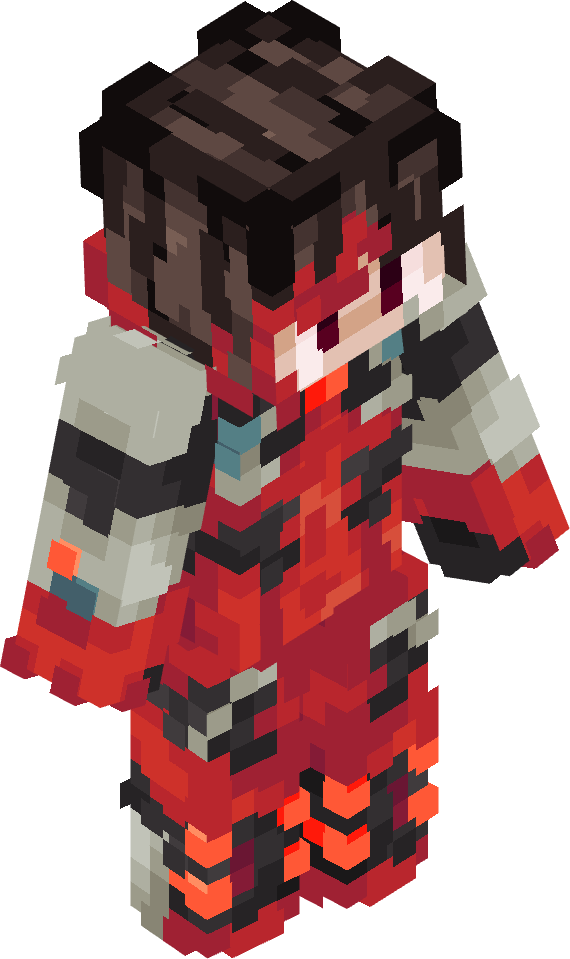
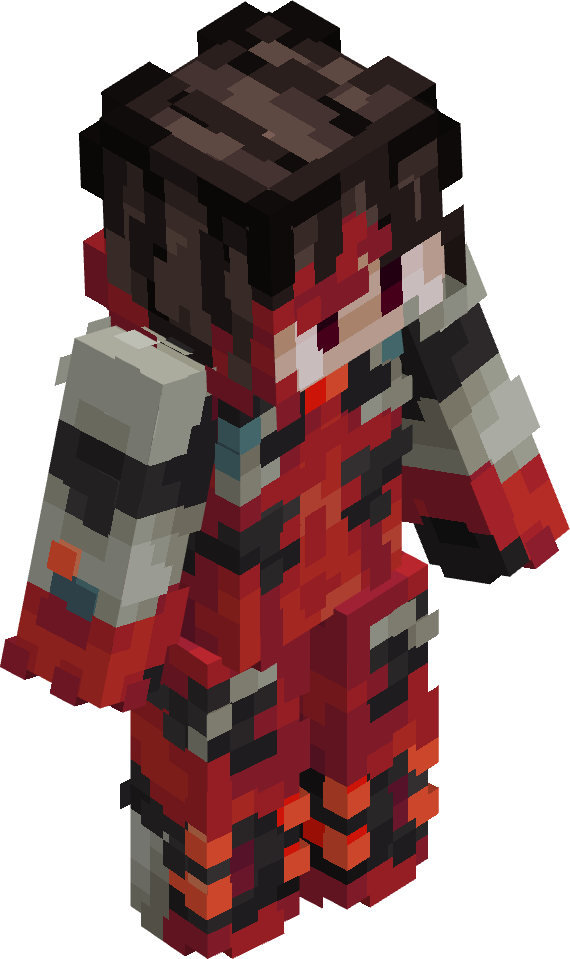
Portfolio Adjustments

diff --git a/portfolio.html b/portfolio.html
@@ -187,7 +187,11 @@
             </div>
             <div class="alt-gallery-item">
                 <img src="/images/portfolio/comms/starman.png" alt="Skin Commission - Starman" height="240px">
-                <p>Starman</p>
+                <p>Starman (April)</p>
+            </div>
+            <div class="alt-gallery-item">
+                <img src="/images/portfolio/comms/starman_new.png" alt="Skin Commission - Starman" height="240px">
+                <p>Starman (July)</p>
             </div>
             <div class="alt-gallery-item">
                 <img src="/images/portfolio/comms/tha_matter.png" alt="Skin Commission - Tha_MaTTeR" height="240px">
@@ -195,11 +199,23 @@
             </div>
             <div class="alt-gallery-item">
                 <img src="/images/portfolio/comms/red_head_blacksmith.png" alt="Skin Commission - Anonymous" height="240px">
-                <p>Blacksmith Character - <strong>Anonymous Commissioner</strong></p>
+                <p>Blacksmith Character - <strong>Anonymous Commissioner</strong> (March)</p>
+            </div>
+            <div class="alt-gallery-item">
+                <img src="/images/portfolio/comms/blonde_blacksmith_redo.png" alt="Skin Commission - Anonymous" height="240px">
+                <p>Blacksmith Character - <strong>Anonymous Commissioner</strong> (August)</p>
             </div>
             <div class="alt-gallery-item">
                 <img src="/images/portfolio/comms/bartender_supermarshadow.png" alt="Skin Commission - Supermarshadow" height="240px">
                 <p>Bartender Character - Supermarshadow</p>
+            </div>
+            <div class="alt-gallery-item">
+                <img src="/images/portfolio/comms/mage_supermarshadow.png" alt="Skin Commission - Supermarshadow" height="240px">
+                <p>Mage Character - Supermarshadow</p>
+            </div>
+            <div class="alt-gallery-item">
+                <img src="/images/portfolio/comms/camille_the_tinkerer_supermarshadow.png" alt="Skin Commission - Supermarshadow" height="240px">
+                <p>Camille The Tinkerer Character - Supermarshadow</p>
             </div>
         </div>
         <h3>Personal Work</h3>
@@ -211,6 +227,10 @@
             <div class="alt-gallery-item">
                 <img src="/images/portfolio/chaos_cubed.png" alt="Skin Example" height="240px">
                 <p>Chaos Cubed - 26.2 Drop</p>
+            </div>
+            <div class="alt-gallery-item">
+                <img src="/images/portfolio/alchemist_dakota.png" alt="Skin Example" height="240px">
+                <p>Alchemist Dakota - for The Vault server</p>
             </div>
             <div class="alt-gallery-item">
                 <img src="/images/portfolio/flesh.png" alt="Skin Example" height="240px">
